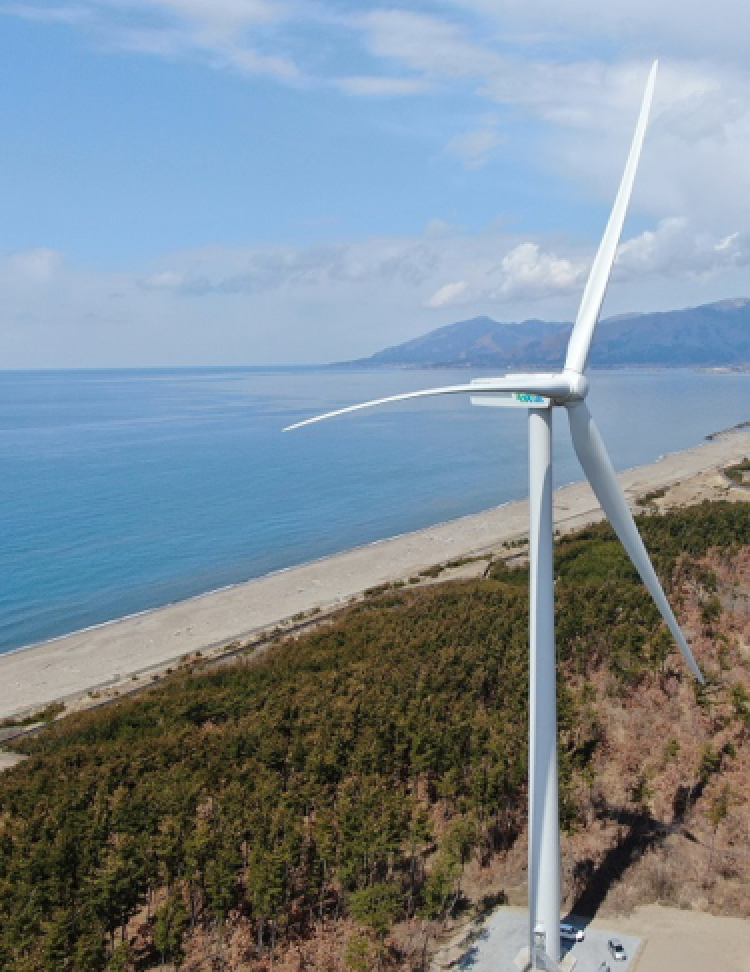
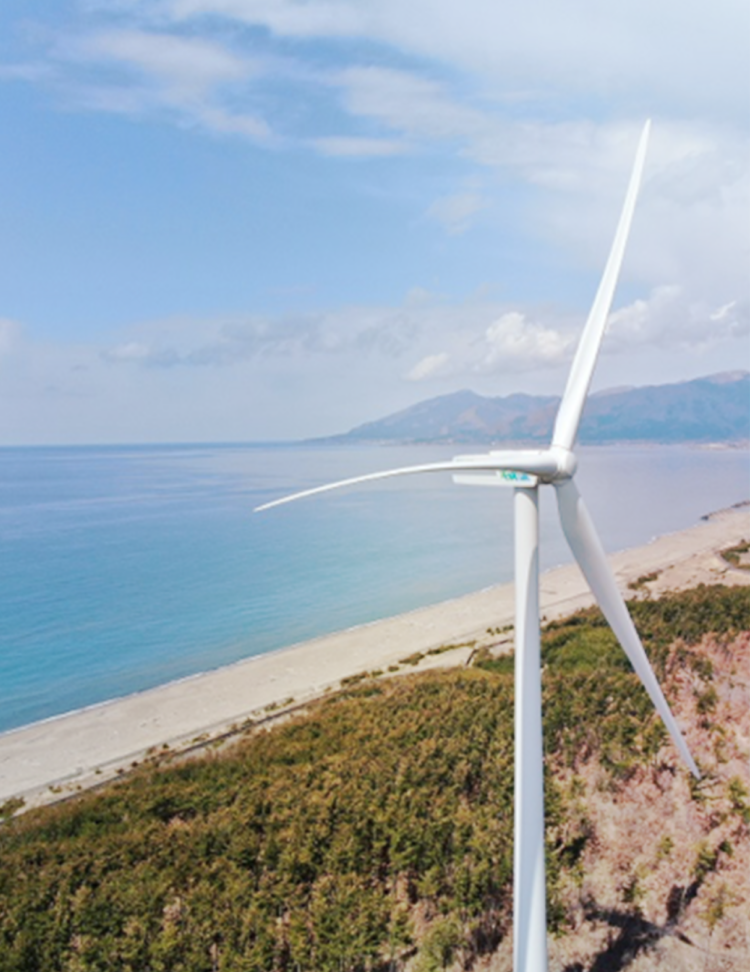
チュートリアル画像差し替え

diff --git a/minden/lib/features/startup/presentation/pages/tutorial_page.dart b/minden/lib/features/startup/presentation/pages/tutorial_page.dart
@@ -9,23 +9,20 @@ import 'package:shared_preferences/shared_preferences.dart';
 
 import 'package:minden/injection_container.dart';
 
-enum PositionAlign { left, right }
-
 class Tutorial {
-  Tutorial(
-      {required this.title,
-      required this.description,
-      required this.imagePath,
-      required this.tittlePosition,
-      required this.titleTextAlign,
-      required this.positionAlign});
+  Tutorial({
+    required this.title,
+    required this.description,
+    required this.imagePath,
+    required this.tittlePosition,
+    required this.titleTextAlign,
+  });
 
   final String title;
   final String description;
   final String imagePath;
   final Map<String, double> tittlePosition;
   final TextAlign titleTextAlign;
-  final PositionAlign positionAlign;
 }
 
 class TutorialPage extends StatefulWidget {
@@ -54,24 +51,21 @@ class _TutorialPageState extends State<TutorialPage> {
         title: i18nTranslate(context, 'tutorial_step_1_title'),
         description: i18nTranslate(context, 'tutorial_step_1_description'),
         titleTextAlign: TextAlign.left,
-        tittlePosition: {'left': 39, 'right': 0, 'top': 227},
-        positionAlign: PositionAlign.left,
+        tittlePosition: {'left': 39, 'top': 86},
       ),
       Tutorial(
         imagePath: 'tutorial-2.png',
         title: i18nTranslate(context, 'tutorial_step_2_title'),
         description: i18nTranslate(context, 'tutorial_step_2_description'),
         titleTextAlign: TextAlign.right,
-        tittlePosition: {'right': 18, 'left': 0, 'top': 201},
-        positionAlign: PositionAlign.right,
+        tittlePosition: {'left': 30, 'top': 85},
       ),
       Tutorial(
         imagePath: 'tutorial-3.png',
         title: i18nTranslate(context, 'tutorial_step_3_title'),
         description: i18nTranslate(context, 'tutorial_step_3_description'),
         titleTextAlign: TextAlign.right,
-        tittlePosition: {'right': 32, 'left': 0, 'top': 74},
-        positionAlign: PositionAlign.right,
+        tittlePosition: {'left': 25, 'top': 85},
       ),
     ];
 
@@ -224,7 +218,7 @@ class Slide extends StatelessWidget {
           children: [
             Container(
               width: MediaQuery.of(context).size.width,
-              height: 484,
+              height: 486,
               decoration: BoxDecoration(
                 image: DecorationImage(
                   fit: BoxFit.cover,
@@ -232,31 +226,12 @@ class Slide extends StatelessWidget {
                 ),
               ),
             ),
-            Container(
-              width: MediaQuery.of(context).size.width,
-              height: 484,
-              decoration: BoxDecoration(
-                gradient: LinearGradient(
-                  begin: FractionalOffset.center,
-                  end: FractionalOffset.bottomCenter,
-                  colors: [
-                    const Color(0xFFf5f3ed).withOpacity(0),
-                    const Color(0xFFf5f3ed).withOpacity(1),
-                  ],
-                  stops: const [
-                    0.0,
-                    1.0,
-                  ],
-                ),
-              ),
-            ),
             Positioned(
               top: data.tittlePosition['top'],
               left: data.tittlePosition['left'],
-              right: data.tittlePosition['right'],
               child: Text(
                 data.title,
-                textAlign: data.titleTextAlign,
+                textAlign: TextAlign.left,
                 style: TextStyle(
                   color: Colors.white,
                   fontFamily: 'NotoSansJP',
